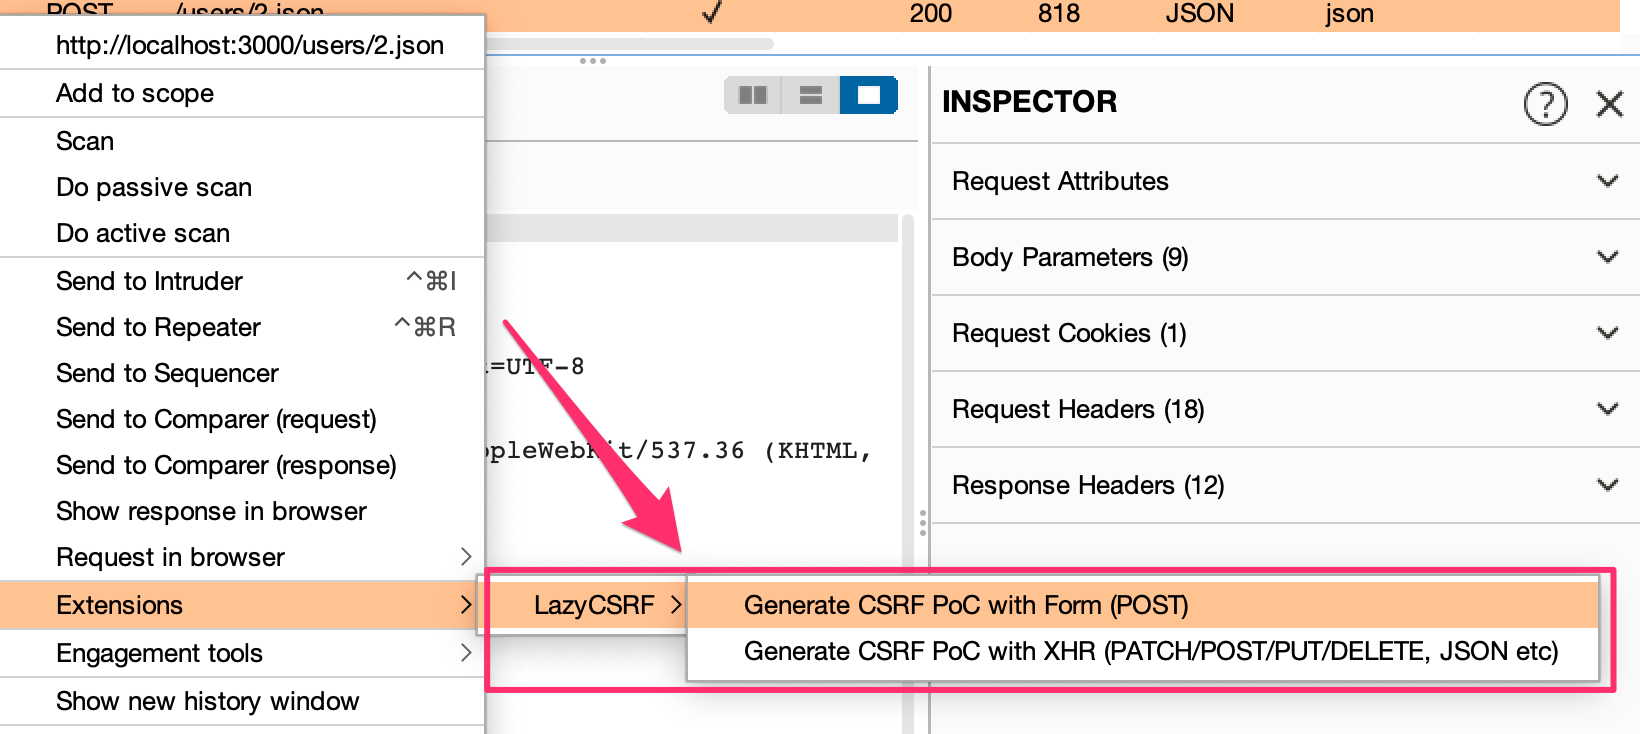
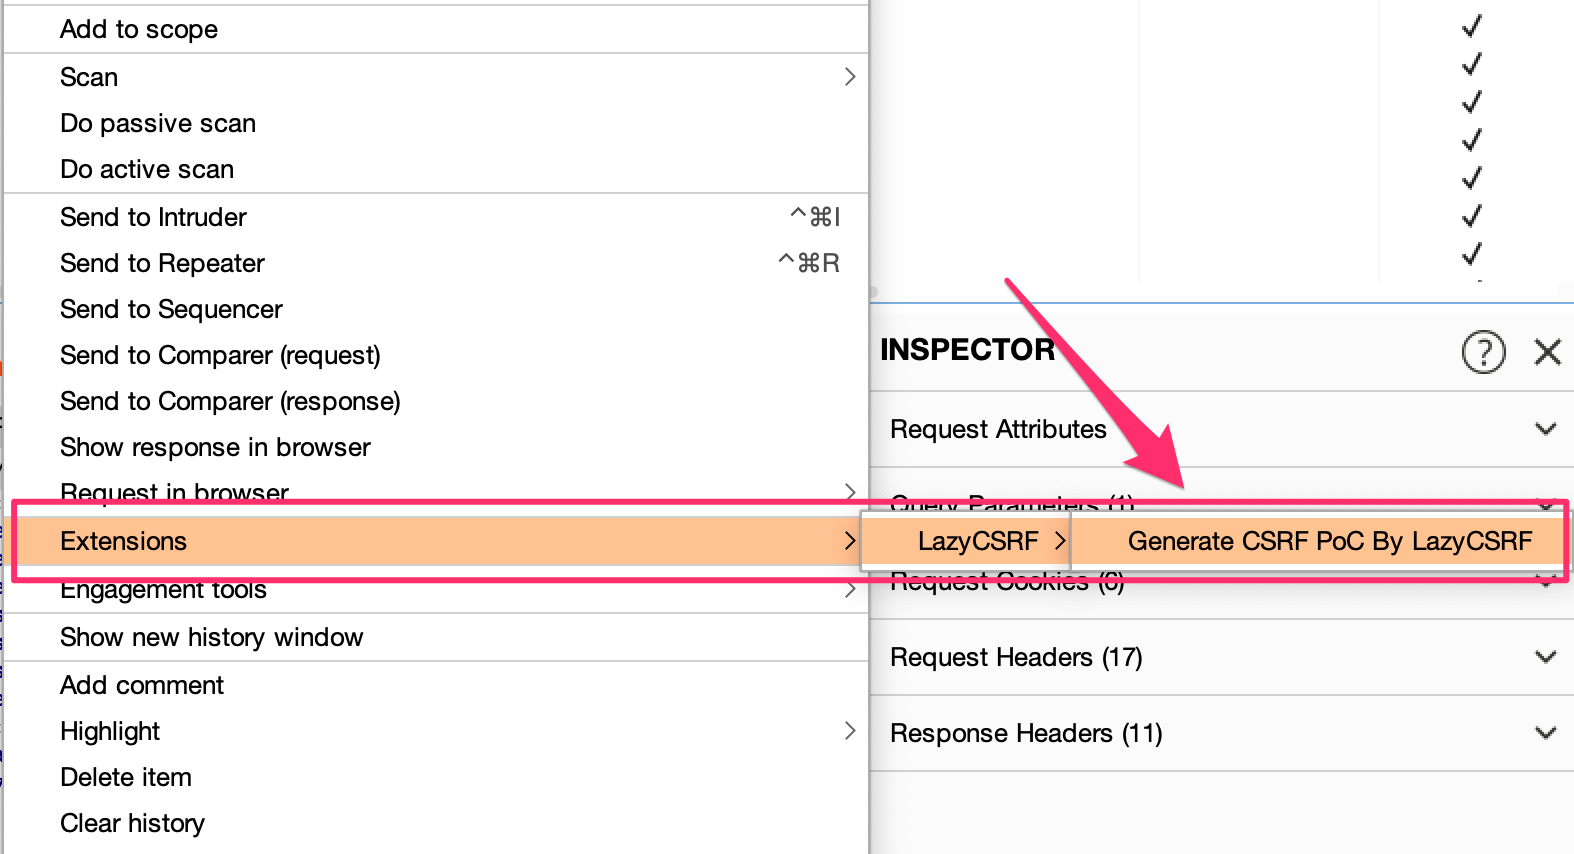
added automatic PoC switching

diff --git a/src/main/java/burp/BurpExtender.java b/src/main/java/burp/BurpExtender.java
@@ -17,9 +17,8 @@ public class BurpExtender implements IBurpExtender, IContextMenuFactory {
   private PrintWriter stdout;
   private PrintWriter stderr;
 
-  private static String EXTENSION_NAME = "LazyCSRF";
-  private static String FORM_CSRF_MENU_NAME = "Generate CSRF PoC with Form (POST)";
-  private static String XHR_CSRF_MENU_NAME = "Generate CSRF PoC with XHR (PATCH/POST/PUT/DELETE, JSON etc)";
+  private static final String EXTENSION_NAME = "LazyCSRF";
+  private static final String CSRF_MENU_NAME = "Generate CSRF PoC By LazyCSRF";
 
   @Override
   public void registerExtenderCallbacks(IBurpExtenderCallbacks callbacks) {
@@ -47,35 +46,11 @@ public class BurpExtender implements IBurpExtender, IContextMenuFactory {
         menuInvocation.getInvocationContext()
             == IContextMenuInvocation.CONTEXT_MESSAGE_EDITOR_RESPONSE
     ) {
-      JMenuItem GenerateFormPocButton = new JMenuItem(FORM_CSRF_MENU_NAME);
-      GenerateFormPocButton.addActionListener(new ActionListener() {
+      JMenuItem GeneratePocButton = new JMenuItem(CSRF_MENU_NAME);
+      GeneratePocButton.addActionListener(new ActionListener() {
         @Override
         public void actionPerformed(ActionEvent arg0) {
-          if (arg0.getActionCommand().equals(FORM_CSRF_MENU_NAME)) {
-            IHttpRequestResponse[] selectedMessages = menuInvocation.getSelectedMessages();
-            for (IHttpRequestResponse req : selectedMessages) {
-              IRequestInfo reqInfo = burpHelpers.analyzeRequest(req);
-              CSRFPoCWindow view = new CSRFPoCWindow(EXTENSION_NAME);
-              view.setVisible();
-              String pocText = GenerateFormPoC(req, reqInfo);
-              view.setRequestLabel(reqInfo.getUrl().toString());
-              view.setCSRFPoCHTML(pocText);
-              String reqFullText = new StringBuilder()
-                  .append(parseHeaderText(reqInfo.getHeaders()))
-                  .append(parseBodyText(req.getRequest()))
-                  .toString();
-              view.setRequest(reqFullText);
-            }
-          }
-        }
-      });
-      menuList.add(GenerateFormPocButton);
-
-      JMenuItem GenerateXhrPocButton = new JMenuItem(XHR_CSRF_MENU_NAME);
-      GenerateXhrPocButton.addActionListener(new ActionListener() {
-        @Override
-        public void actionPerformed(ActionEvent arg0) {
-          if (arg0.getActionCommand().equals(XHR_CSRF_MENU_NAME)) {
+          if (arg0.getActionCommand().equals(CSRF_MENU_NAME)) {
             IHttpRequestResponse[] selectedMessages = menuInvocation.getSelectedMessages();
             for (IHttpRequestResponse req : selectedMessages) {
               IRequestInfo reqInfo = burpHelpers.analyzeRequest(req);
@@ -83,9 +58,9 @@ public class BurpExtender implements IBurpExtender, IContextMenuFactory {
               view.setVisible();
               String pocText = null;
               try {
-                pocText = GenerateJSONPoC(req, reqInfo);
+                pocText = GeneratePoC(req, reqInfo);
               } catch (UnsupportedEncodingException e) {
-                stderr.println("ERROR: Unsupported Encoding");
+                e.printStackTrace();
               }
               view.setRequestLabel(reqInfo.getUrl().toString());
               view.setCSRFPoCHTML(pocText);
@@ -98,9 +73,21 @@ public class BurpExtender implements IBurpExtender, IContextMenuFactory {
           }
         }
       });
-      menuList.add(GenerateXhrPocButton);
+      menuList.add(GeneratePocButton);
     }
     return menuList;
+  }
+
+  private String GeneratePoC(IHttpRequestResponse req, IRequestInfo reqInfo)
+      throws UnsupportedEncodingException {
+    String method = reqInfo.getMethod();
+    String body = new String(req.getRequest(), StandardCharsets.UTF_8)
+        .substring(reqInfo.getBodyOffset());
+    String url = reqInfo.getUrl().toString();
+    if (isJSON(body) || (!(method.equals("GET")) && !(method.equals("POST")))) {
+      return GenerateJSONPoC(req, reqInfo);
+    }
+    return GenerateFormPoC(req, reqInfo);
   }
 
   private String GenerateJSONPoC(IHttpRequestResponse req, IRequestInfo reqInfo)

diff --git a/README.md b/README.md
@@ -9,15 +9,15 @@ LazyCSRF is a more useful CSRF PoC generator that runs on Burp Suite.
 ## Motivation
 Burp Suite is an intercepting HTTP Proxy, and it is the defacto tool for performing web application security testing.
 The feature of Burp Suite that I like the most is `Generate CSRF PoC`. 
-However, it does not support JSON parameters. 
-It also uses the `<form>`, so it cannot send PUT/DELETE requests.
+However, the function to automatically determine the content of the request is broken, and it tries to generate PoCs using `form` even for PoCs that cannot be represented by `form`, such as JSON parameters and PUT requests.
 In addition, multibyte characters that can be displayed in Burp Suite itself are often garbled in the generated CSRF PoC.
-Those were the motivations for creating LazyCSRF.
+These were the motivations for creating LazyCSRF.
 
 ## Features
 
-- Support JSON parameter (like a request to the API)
-- Support PUT/DELETE (only work with CORS enabled with an unrestrictive policy)
+- Automatically switch to PoC using XMLHttpRequest
+  - In case the parameter is JSON
+  - In case the request is a PUT/PATCH/DELETE
 - Support displaying multibyte characters (like Japanese)
 - Generating CSRF PoC with Burp Suite Community Edition (of course, it also works in Professional Edition)
 
